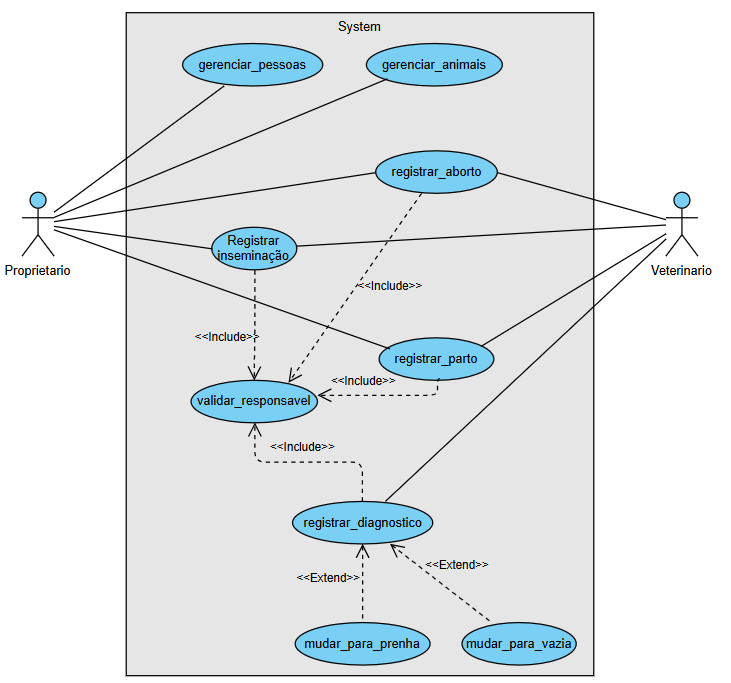
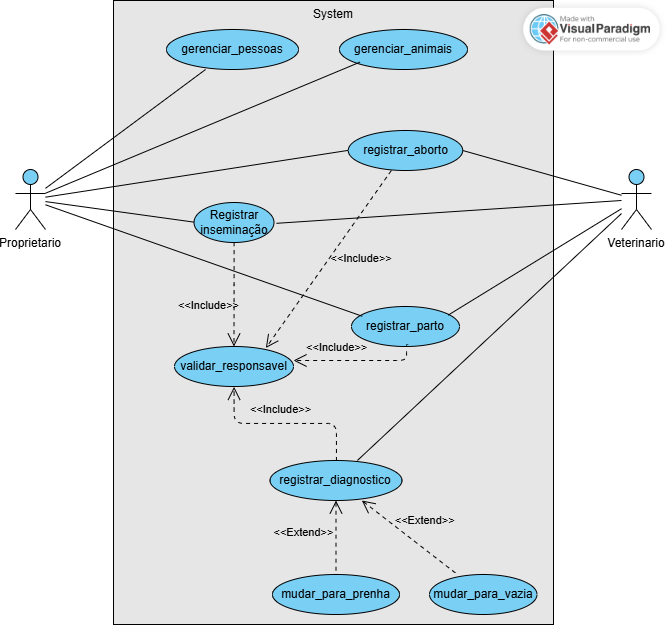
add diagrama de estados, (minha escolha) ajustes no readme

diff --git a/APS/Documentação_do_Projeto.md b/APS/Documentação_do_Projeto.md
@@ -29,7 +29,7 @@ O sistema consiste em um software de gestão e controle reprodutivo para rebanho
 | :--- | :--- | :--- | :--- |
 | **RN01** | Uma fêmea que se encontra no estado "Vazia" ou "Inseminada" não poderá receber o registro de um evento de "Parto" ou "Aborto". | Alta | RF08, RF09, RF12 |
 | **RN02** | Todo evento reprodutivo registrado (Inseminação, Diagnóstico, Parto, Aborto) deverá possuir obrigatoriamente um Médico Veterinário ou Proprietário responsável atrelado. | Alta | RF04, RF06, RF08, RF12 |
-| **RN03** | Apenas usuários cadastrados e logados como Médicos Veterinários (CRMV válido) terão permissão para acessar e registrar o Diagnóstico de Gestação (Toque). | Alta | RF06 |
+| **RN03** | O sistema deve restringir o registro de "Diagnóstico de Gestação (Toque)" exclusivamente para perfis de Médicos Veterinários, bloqueando a opção na interface e invalidando o campo de resultado caso um Proprietário seja selecionado como responsável. | Alta | RF06 |
 
 ### c) Requisitos Não Funcionais (RNF)
 
@@ -47,7 +47,7 @@ Abaixo apresentamos o Diagrama de Casos de Uso do sistema. Este modelo visual de
 
 O diagrama reflete nossas regras de negócio e controle de acesso, evidenciando a separação de papéis entre o **Proprietário** (focado na gestão e registros cotidianos) e o **Veterinário** (com exclusividade técnica sobre laudos clínicos). Além disso, destaca a reutilização de rotinas através de relacionamentos de `<<include>>` para a validação de responsáveis, e fluxos condicionais de `<<extend>>` para transições de estados reprodutivos.
 
-![Diagrama de Casos de Uso do Sistema da Fazenda](diagramas/diagrama_casos_de_uso.png)
+![Diagrama de Casos de Uso do Sistema](diagramas/diagrama_casos_de_uso.png)
 
 ## 3. Especificação dos Casos de Uso
 
@@ -187,70 +187,36 @@ Esta representação ilustra as entidades fundamentais para a gestão reprodutiv
 
 Abaixo, o diagrama detalha os atributos, os tipos de dados e as multiplicidades das relações arquitetadas para o escopo do projeto.
 
-```mermaid
-    classDiagram
-    %% Enumerações
-    class Raca {
-        <<enumeration>>
-        ANGUS
-        BRAFORD
-        NELORE
-        HOLANDES
-    }
+![Diagrama de Classes Sistema](diagramas/diagrama_classes_classes_bases.png)
 
-    %% Hierarquia de Pessoa
-    class Pessoa {
-        <<abstract>>
-        -cpf: str
-        -nome: str
-        -telefone: str
-        +valida_cpf()
-        +exibir_informacoes()
-    }
-    class Proprietario {
-        -inscricao_estadual: str
-        -nome_fazenda: str
-    }
-    class Veterinario {
-        -crmv: str
-    }
-    Pessoa <|-- Proprietario : Herança
-    Pessoa <|-- Veterinario : Herança
 
-    %% Hierarquia de Animal
-    class Animal {
-        <<abstract>>
-        -brinco: int
-        -raca: Raca
-        -data_nascimento: date
-        +valida_brinco()
-        +exibir_informacoes()
-    }
-    class Macho {
-        -is_castrado: bool
-    }
-    class Femea {
-        -estado_reprodutivo: str
-        -data_ultima_inseminacao :  date
-    }
-    Animal <|-- Macho : Herança
-    Animal <|-- Femea : Herança
-    Animal --> Raca : Associação
 
-    %% Classe de Associação (Manejo)
-    class Manejo {
-        -id_manejo: int
-        -brinco_animal: int
-        -cpf_responsavel: str
-        -data_evento: date
-        -tipo_evento: str
-        -resultado_diagnostico: str
-        -observacao: str
-        +valida_data()
-        +exibir_informacoes()
-    }
-    
-    %% Relacionamentos do Manejo
-    Manejo "*" --> "1" Animal : realiza
-    Manejo "*" --> "1" Pessoa : responsavel
-```
+
+## 5. Diagrama de Estados
+
+O Diagrama de Estados a seguir ilustra o ciclo de vida reprodutivo das matrizes bovinas dentro do sistema. Este modelo visual foi desenvolvido para representar diretamente a implementação do Padrão de Projeto Comportamental **State**, arquitetado na camada de modelo do software através da classe `Femea` e das subclasses derivadas de `EstadoReprodutivo`.
+
+A utilização deste diagrama e do respectivo padrão de projeto garante o cumprimento rigoroso das regras de negócio (como a RN01), impedindo a execução de ações ilógicas no sistema, como tentar registrar um parto para uma matriz que não se encontra em período gestacional. O comportamento da entidade altera-se dinamicamente conforme o seu estado atual, seguindo as seguintes transições:
+
+* **Vazia:** Configura o estado inicial de toda matriz cadastrada no sistema. Neste estado, o animal está apto para reprodução, sendo a chamada do método `registrar_inseminacao()` o único gatilho válido para avanço no ciclo reprodutivo.
+* **Inseminada:** Estado de transição onde a matriz aguarda a confirmação de prenhez através de um exame de toque. A partir deste ponto, o sistema exige um laudo veterinário. Se o método `diagnosticar(Positivo)` for acionado, a fêmea transita para o estado "Prenha". Se for acionado `diagnosticar(Negativo)`, confirmando falha no procedimento, a matriz retorna imediatamente ao estado "Vazia".
+* **Prenha:** Representa o período gestacional consolidado. O ciclo neste estado só pode ser encerrado através dos eventos de `registrar_parto()` (sucesso) ou `registrar_aborto()` (interrupção). Em ambos os cenários, o sistema reinicia o ciclo, retornando a matriz ao estado "Vazia" para que possa participar de futuras estações de monta.
+
+![Diagrama de Estados do Sistema](diagramas/diagrama_de_estados.jpg)
+
+## 6. Considerações Finais
+**Desafios Encontrados:**
+O principal desafio durante o desenvolvimento foi garantir a integridade do banco de dados relacional e espelhar as regras de negócio de forma isolada do banco e da interface gráfica. A implementação do Padrão State para transição do ciclo reprodutivo (Vazia -> Inseminada -> Prenha) exigiu um planejamento cuidadoso para que a herança e o polimorfismo funcionassem corretamente junto com o Tkinter e a persistência de dados. Além disso, lidar com eventos assíncronos de interface (como o debounce/cronômetro nas caixas de pesquisa) foi um desafio técnico contornado com sucesso.
+
+**Aprendizados:**
+A integração entre Análise, Projeto (APS) e Implementação (LPOO) consolidou a percepção de que um sistema bem modelado previamente no papel (UML) economiza drásticas horas de refatoração no código. A separação em camadas (MVC) aliada aos padrões DAO, Factory e State demonstraram o poder da Orientação a Objetos na criação de softwares com baixo acoplamento e alta coesão, facilitando a manutenção e a escalabilidade do sistema.
+
+**Melhorias Futuras:**
+* Implementar a geração de relatórios em PDF com o histórico de manejos para impressão do proprietário.
+* Criar um dashboard gráfico (com bibliotecas como Matplotlib) na tela principal indicando a porcentagem do rebanho que se encontra prenha.
+* Adicionar controle de acesso por login e senha, diferenciando visualmente as permissões de Proprietários e Veterinários.
+
+## 7. Referências
+* **Fontes e Ferramentas de Edição:** StackEdit e Visual Paradigm.
+* **Linguagem e GUI:** Python 3.11 e biblioteca Tkinter.
+* **Banco de Dados:** PostgreSQL e driver psycopg2.

diff --git a/README.md b/README.md
@@ -1,22 +1,33 @@
 # Sistema de Gestão Reprodutiva Bovino
 
-Projeto integrador desenvolvido para as disciplinas de **Análise e Projeto de Sistemas (APS)** e **Linguagem de Programação Orientada a Objetos (LPOO)**.
-
+**Disciplina:** Análise e Projeto de Sistemas (APS) e Linguagem de Programação Orientada a Objetos (LPOO)  
 **Aluno:** Daniel Cipriano da Silva  
-**Curso:** Bacharelado em Ciência da Computação (IFSul)  
 **Período:** 2026/1  
 
----
-
 ## O Projeto
-O sistema consiste em um software de gestão e controle reprodutivo para rebanhos bovinos. Aplica Padrões de Projeto (como DAO e State) visando um código limpo e escalável, integrando uma camada de apresentação (View) intuitiva em Tkinter que separa perfeitamente as regras de negócio da interface gráfica e realiza a persistência em um banco de dados PostgreSQL.
+O sistema consiste em um software de gestão e controle reprodutivo para rebanhos bovinos. Ele resolve o problema da falta de rastreabilidade no ciclo reprodutivo de matrizes, permitindo o registro e a consulta de histórico de manejos (inseminações, toques, partos e abortos). O sistema transita automaticamente os estados reprodutivos das fêmeas (Vazia, Inseminada, Prenha) utilizando padrões de projeto e regras de negócio rígidas.
 
----
+🔗 **[CLIQUE AQUI PARA ACESSAR A DOCUMENTAÇÃO COMPLETA DO PROJETO (Requisitos, Casos de Uso e Estados)](APS/Documentação_do_Projeto.md)**
 
-## Documentação do Projeto (APS)
-A documentação completa de Análise e Projeto de Sistemas (APS): [Documentação do Projeto - APS](/APS/Documentação_do_Projeto.md)
+## Diagrama de Classes Estrutural
+O diagrama abaixo apresenta a estrutura do sistema, destacando os relacionamentos e a implementação de padrões de projeto como **State** (Estados Reprodutivos) e a abstração das entidades do domínio.
 
----
+## Diagrama de Classes do Sistema
+
+O diagrama de classes a seguir detalha a arquitetura técnica do sistema no nível de projeto, especificando atributos, métodos relevantes, tipos de dados e a visibilidade dos três Padrões de Projeto aplicados na estrutura do software (DAO, Factory e State).
+
+![Diagrama de Classes do Sistema](APS/diagramas/diagrama_classes_reduzido.png)
+
+## Estrutura do Banco de Dados
+O sistema utiliza o banco de dados relacional **PostgreSQL**, com a comunicação sendo realizada via driver `psycopg2` através do padrão de projeto DAO. O script de criação das tabelas (`banco.sql`) encontra-se na pasta `database` e foi modelado com restrições (`CHECK` e `FOREIGN KEY`) para garantir a integridade dos dados no nível do banco. 
+
+O banco é composto por três tabelas principais:
+
+* **`tb_pessoas`**: Tabela projetada para armazenar todos os responsáveis técnicos. Utiliza a coluna `tipo_pessoa` para diferenciar os cadastros entre *Proprietário* e *Veterinário*, garantindo por exemplo que a coluna `crmv` seja única para os profissionais da área.
+* **`tb_animais`**: Armazena os dados do rebanho. A coluna `tipo_animal` diferencia *Macho* e *Fêmea*, permitindo que características reprodutivas distintas (como `is_castrado` para machos e `estado_reprodutivo` restrito a 'Vazia', 'Inseminada' ou 'Prenha' para fêmeas) coexistam na mesma tabela.
+* **`tb_manejos`**: Funciona como a tabela transacional (histórico) do sistema. Ela liga as entidades principais relacionando o `brinco_animal` e o `cpf_responsavel` a cada evento reprodutivo. As exclusões seguem a regra `ON DELETE CASCADE` para os animais (se o animal for removido, seu histórico sai junto) e `ON DELETE RESTRICT` para pessoas (impedindo a exclusão de um veterinário que possua laudos assinados no sistema).
 
 ## Declaração de Uso de IA
-*fazer a declaração do uso de ia depois*
+Declaro que fiz o uso da Inteligência Artificial **Gemini (Google)** como ferramenta de apoio durante a elaboração deste trabalho. 
+* **Etapas utilizadas:** O modelo funcionou como assistente pontual no desenvolvimento da interface gráfica (View), auxiliando no ajuste de detalhes visuais e na implementação dos filtros de busca em tempo real. O uso da ferramenta foi focado em impulsionar o aprendizado prático das tecnologias, servindo de apoio para compreender a lógica aplicada e resolver problemas de código.
+* **Aprendizado:** O uso da IA contribuiu ativamente para o aprendizado de arquiteturas de código mais limpas.
